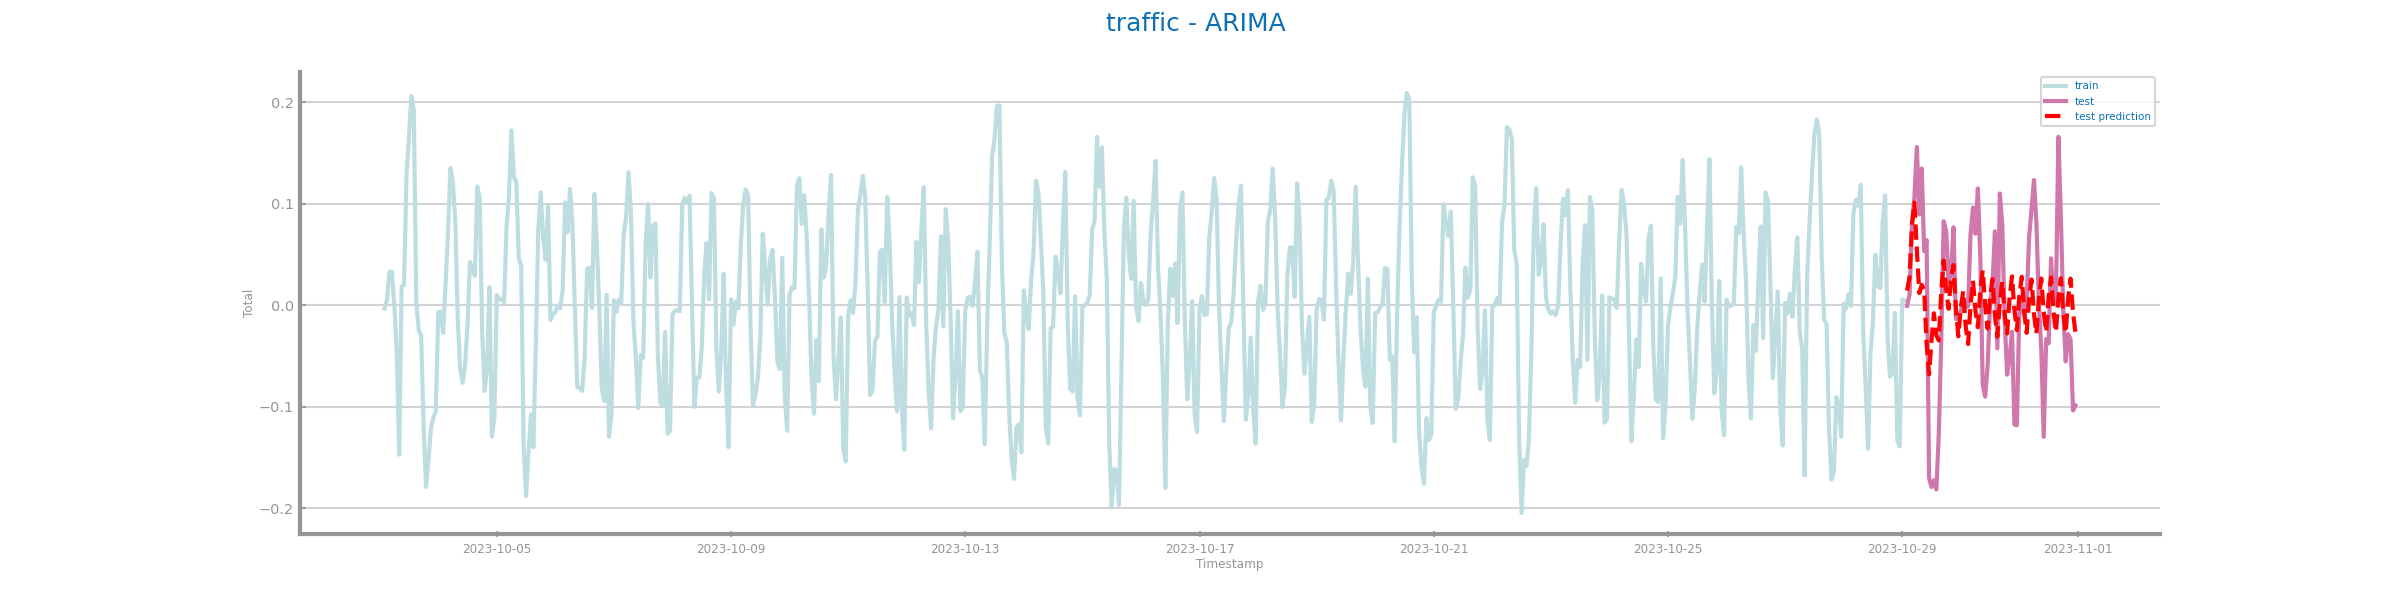
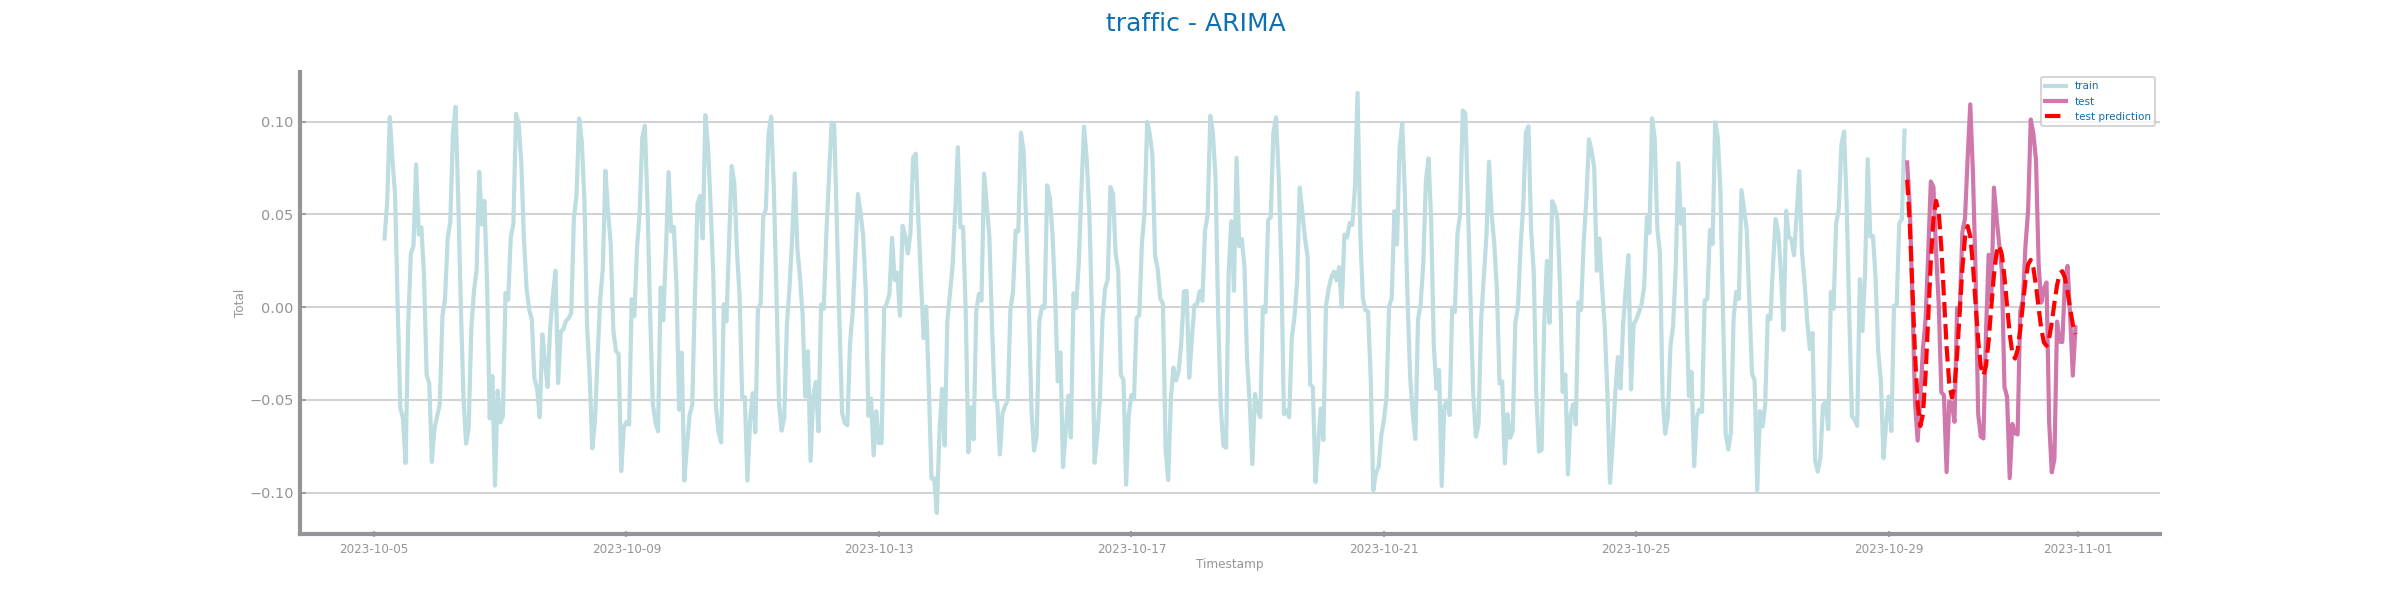
Time Series

diff --git a/auxiliar/dslabs_functions.py b/auxiliar/dslabs_functions.py
@@ -239,6 +239,39 @@ def plot_multiline_chart(
     return ax
 
 
+# def plot_multibar_chart(
+#     group_labels: list,
+#     yvalues: dict,
+#     ax: Axes = None,  # type: ignore
+#     title: str = "",
+#     xlabel: str = "",
+#     ylabel: str = "",
+#     percentage: bool = False,
+# ) -> Axes | list[Axes]:
+#     if ax is None:
+#         ax = gca()
+#     ax = set_chart_labels(ax=ax, title=title, xlabel=xlabel, ylabel=ylabel)
+#     if percentage:
+#         ax.set_ylim(0.0, 1.0)
+#     bar_labels: list = list(yvalues.keys())
+#
+#     # This is the location for each bar
+#     index: ndarray = arange(len(group_labels))
+#     bar_width: float = 0.8 / len(bar_labels)
+#     ax.set_xticks(index + bar_width / 2, labels=group_labels)
+#
+#     for i in range(len(bar_labels)):
+#         values: BarContainer = ax.bar(
+#             index + i * bar_width,
+#             yvalues[bar_labels[i]],
+#             width=bar_width,
+#             label=bar_labels[i],
+#         )
+#         format = "%.2f" if percentage else "%.0f"
+#         ax.bar_label(values, fmt=format, fontproperties=FONT_TEXT)
+#     ax.legend(fontsize="xx-small")
+#     return ax
+
 def plot_multibar_chart(
     group_labels: list,
     yvalues: dict,
@@ -261,14 +294,17 @@ def plot_multibar_chart(
     ax.set_xticks(index + bar_width / 2, labels=group_labels)
 
     for i in range(len(bar_labels)):
+        bar_yvalues = yvalues[bar_labels[i]]
         values: BarContainer = ax.bar(
             index + i * bar_width,
-            yvalues[bar_labels[i]],
+            bar_yvalues,
             width=bar_width,
             label=bar_labels[i],
         )
-        format = "%.2f" if percentage else "%.0f"
+        format = "%.2f" if percentage else "%.3f"
         ax.bar_label(values, fmt=format, fontproperties=FONT_TEXT)
+        if any(y < 0 for y in bar_yvalues) and percentage:
+            ax.set_ylim(-1.0, 1.0)
     ax.legend(fontsize="xx-small")
     return ax
 

diff --git a/TimeSeries.py b/TimeSeries.py
@@ -43,8 +43,8 @@ data: DataFrame = read_csv(
     parse_dates = True,
     infer_datetime_format = True,
 )
-# data.sort_index(inplace=True)
-# series: Series = data[target]
+data.sort_index(inplace=True)
+series: Series = data[target]
 
 # ---------------------------------------
 #             Profiling
@@ -67,11 +67,11 @@ data: DataFrame = read_csv(
 # --- Distribution --- #
 # -------------------- #
 
-# dist = ts_Distribtion(filename, file_tag, data, target, index)
+dist = ts_Distribtion(filename, file_tag, data, target, index)
 # dist.ts_distribution_boxplots()
 # dist.ts_distribution_histograms()
-# dist.ts_autocorrelation_lag()
-# dist.ts_autocorrelation_correlogram()
+dist.ts_autocorrelation_lag()
+dist.ts_autocorrelation_correlogram()
 
 # -------------------- #
 # --- Stationarity --- #
@@ -89,7 +89,7 @@ data: DataFrame = read_csv(
 #         5%: -2.876
 #         10%: -2.575
 # The series is not stationary (p-value > 0.05 : the series is non-stationary)
-
+'''
 # ---------------------------------------
 #             Transformation
 # ---------------------------------------
@@ -121,7 +121,7 @@ smoothing = ts_Smoothing(filename, file_tag, df, target, index)
 smoothing.ts_smoothing()
 smoothing.ts_smoothing_lr()
 
-series = smoothing.ts_smoothing_size(50)
+series = smoothing.ts_smoothing_size(100)
 #size 50?
 
 # -------------------- #
@@ -221,5 +221,11 @@ train, test = series[:train_size], series[train_size:]
 lstm = ts_LSTM(train, test, file_tag, target, index,series2,train_size)
 lstm.lstm_study(3000)
 
+# 50
 # {'name': 'LSTM', 'metric': 'R2', 'params': (4, 25, 3000)}
 # LSTM best results achieved with length=4 hidden_units=25 and nr_episodes=3000) ==> measure=0.67
+
+# 100
+# {'name': 'LSTM', 'metric': 'R2', 'params': (4, 100, 2100)}
+# LSTM best results achieved with length=4 hidden_units=100 and nr_episodes=2100) ==> measure=0.85
+'''

diff --git a/timeSeries/profiling/ts_distribution.py b/timeSeries/profiling/ts_distribution.py
@@ -61,9 +61,10 @@ class ts_Distribtion:
         return lagged_series
 
     def ts_autocorrelation_lag(self):
+        ss_hours = ts_aggregation_by(self.series, gran_level="h", agg_func=sum)
         figure(figsize=(3 * HEIGHT, HEIGHT))
-        lags = self.get_lagged_series(self.series, 20, 10)
-        plot_multiline_chart(self.series.index.to_list(), lags, xlabel=self.index, ylabel=self.target)
+        lags = self.get_lagged_series(ss_hours, 20, 10)
+        plot_multiline_chart(ss_hours.index.to_list(), lags, xlabel=self.index, ylabel=self.target)
         savefig(f"images/timeSeries/profiling/distribution/{self.file_tag}_{self.target}_autocorrelation_lag.png")
 
     def ts_autocorrelation_study(self, series: Series, max_lag: int, delta: int = 1):
@@ -85,5 +86,6 @@ class ts_Distribtion:
         return
 
     def ts_autocorrelation_correlogram(self):
-        self.ts_autocorrelation_study(self.series, 10, 1)
+        ss_hours = ts_aggregation_by(self.series, gran_level="h", agg_func=sum)
+        self.ts_autocorrelation_study(ss_hours, 10, 1)
         savefig(f"images/timeSeries/profiling/distribution/{self.file_tag}_{self.target}_autocorrelation_correlogram.png")
